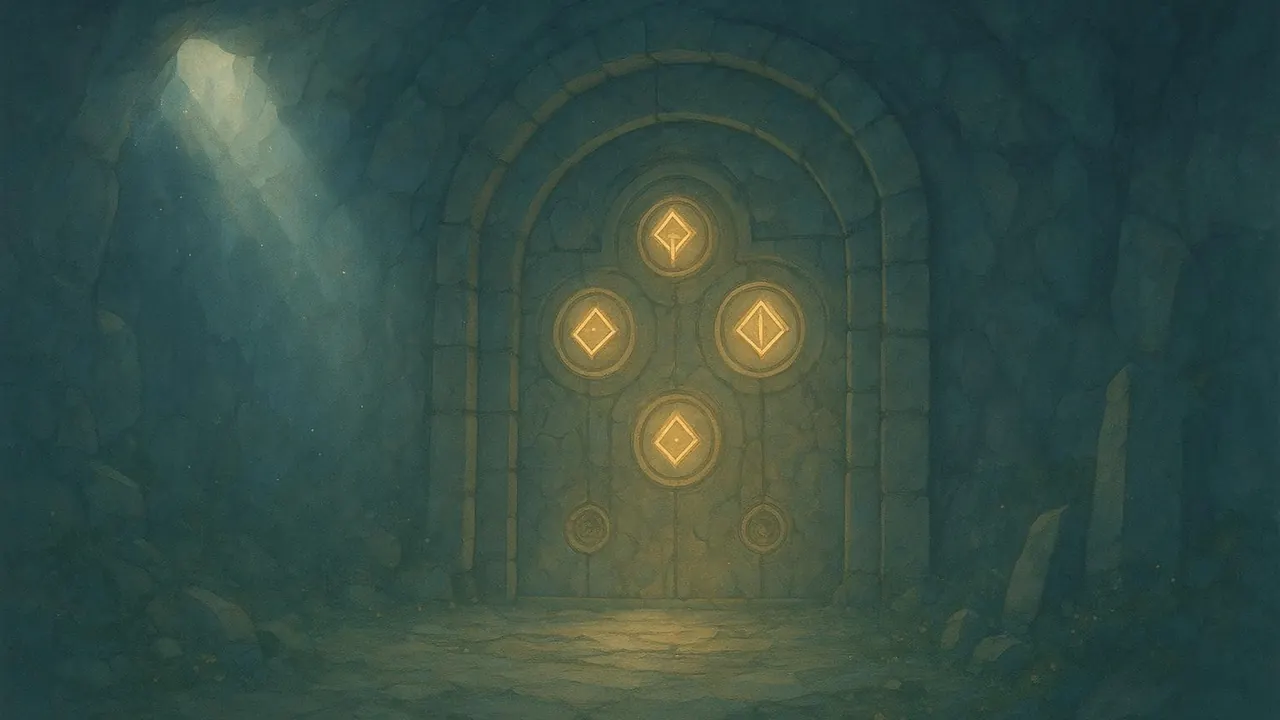
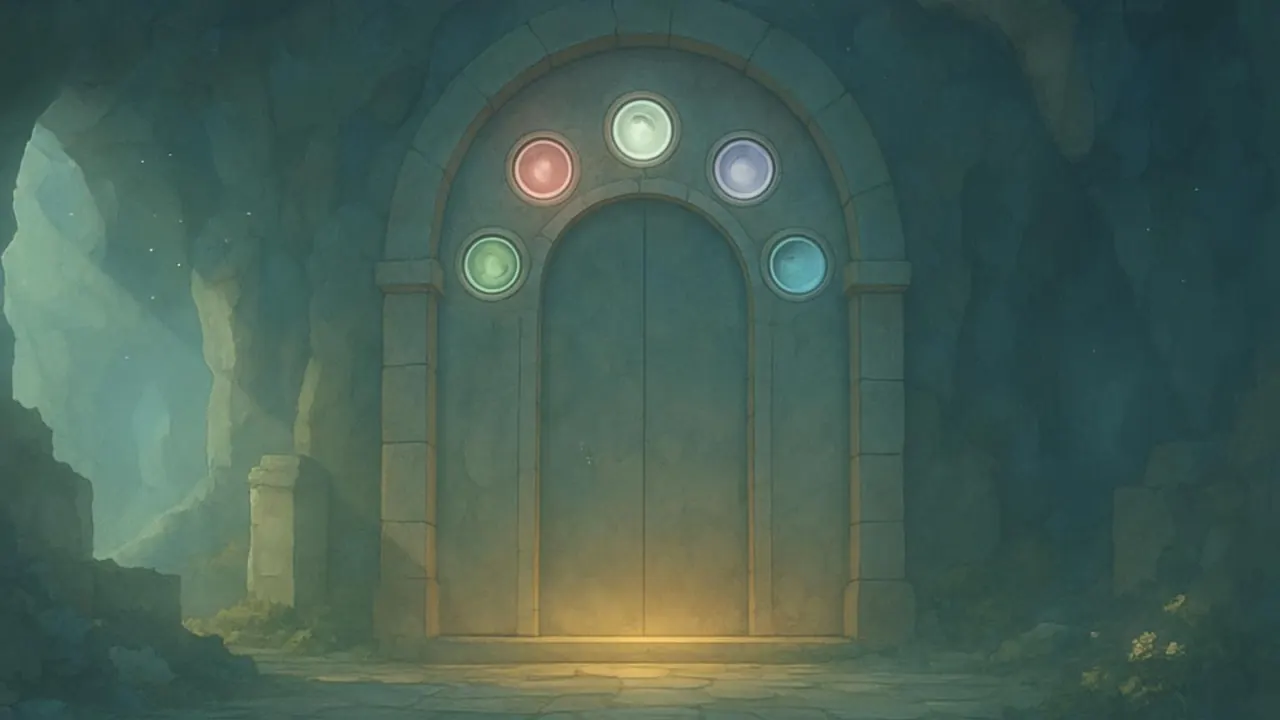
updating sigil door

diff --git a/scripts/export-art-spec.ts b/scripts/export-art-spec.ts
@@ -217,7 +217,7 @@ const TOWN: Record<string, string> = {
   training: 'an outdoor training yard with practice dummies, an archery range and sparring ring at sunset',
   cartographer: 'a cartographer\'s map room with a huge table map, compasses, candles and five glowing doorways painted on the wall',
   vault: 'an underground bank vault with heavy iron doors, chests of gold and guarded lockboxes',
-  door: 'the Sixth Door: a colossal ancient stone door in a cavern, five glowing seals (one for each lesser door), dice-shaped runes, light spilling through the crack',
+  door: 'the Sixth Door: a colossal ancient single-slab stone door in a cavern, with five glowing round seals set in a curved arch across its upper half, like five points along a rainbow: two seals on the left, ONE seal at the top centre, two seals on the right, 5 seals in total. Left to right their colours are fiery red, poison green, glowing silver-white (the centre, highest seal), smoky violet, lightning blue, one for each head of the five-headed dragon. No other seals, circles or lights on the door. Golden light glows along the base of the door',
 };
 for (const [k, t] of Object.entries(TOWN)) out.push({ key: `town/${k}`, kind: 'scene', group: 'scene:town', name: k, subject: t, anchor: k === 'keep' });
 

diff --git a/src/styles/main.css b/src/styles/main.css
@@ -181,7 +181,9 @@ img { display: block; }
 .pmini { display: flex; gap: 8px; align-items: center; padding: 6px; border-radius: 4px; background: rgba(5, 10, 30, .5); border: 1px solid rgba(233, 225, 207, .2); min-width: 0; }
 .pmini .portrait { width: 44px; height: 44px; }
 .pmini .name { font-size: 14px; white-space: nowrap; overflow: hidden; text-overflow: ellipsis; }
-.log { font-family: var(--prose); font-size: 15px; max-height: 180px; overflow-y: auto; display: flex; flex-direction: column; gap: 2px; padding-right: 4px; }
+/* column-reverse pins the scroll to the newest entry (bottom) on every render; the single inner .log-lines keeps DOM order chronological. */
+.log { font-family: var(--prose); font-size: 15px; max-height: 180px; overflow-y: auto; display: flex; flex-direction: column-reverse; padding-right: 4px; }
+.log-lines { display: flex; flex-direction: column; gap: 2px; }
 .log .warn { color: #ffcf7a; }
 .log .loot, .log .fortune { color: var(--gold); }
 .log .heal { color: #8ff0a4; }

diff --git a/src/ui/explore.ts b/src/ui/explore.ts
@@ -111,7 +111,7 @@ export function exploreScreen(): HTMLElement {
           mirror ? h('p', { class: 'small gold' }, '🪞 This room is mirrored: Left and Right are swapped.') : null,
           exp.biome === 'starfall' && exp.meter ? h('p', { class: 'small gold' }, `🌌 Gravity has turned ${exp.meter} quarter${exp.meter > 1 ? 's' : ''} — directions are rotated.`) : null),
         h('div', { class: 'row' }, ...actions),
-        h('div', { class: 'win' }, h('h3', null, 'Journal'), h('div', { class: 'log', role: 'log', 'aria-live': 'polite' }, ...exp.log.slice(-40).map((l) => h('div', { class: l.kind ?? '' }, l.t)))),
+        h('div', { class: 'win' }, h('h3', null, 'Journal'), h('div', { class: 'log', role: 'log', 'aria-live': 'polite' }, h('div', { class: 'log-lines' }, ...exp.log.slice(-40).map((l) => h('div', { class: l.kind ?? '' }, l.t))))),
         partyStrip(),
         fortuneStrip()),
       h('div', { class: 'col' },

diff --git a/src/ui/combat.ts b/src/ui/combat.ts
@@ -299,8 +299,7 @@ function commandEl(): HTMLElement {
 
 function logWin(): HTMLElement {
   const ctx = ctxOrNull()!;
-  const el = h('div', { class: 'log', role: 'log', 'aria-live': 'polite', style: 'max-height:240px' }, ...ctx.combat.log.slice(-60).map((l) => h('div', { class: l.kind ?? '' }, l.t)));
-  afterRender.push(() => { el.scrollTop = el.scrollHeight; });
+  const el = h('div', { class: 'log', role: 'log', 'aria-live': 'polite', style: 'max-height:240px' }, h('div', { class: 'log-lines' }, ...ctx.combat.log.slice(-60).map((l) => h('div', { class: l.kind ?? '' }, l.t))));
   return h('div', { class: 'win' }, h('h3', null, 'Battle log'), el);
 }
 
